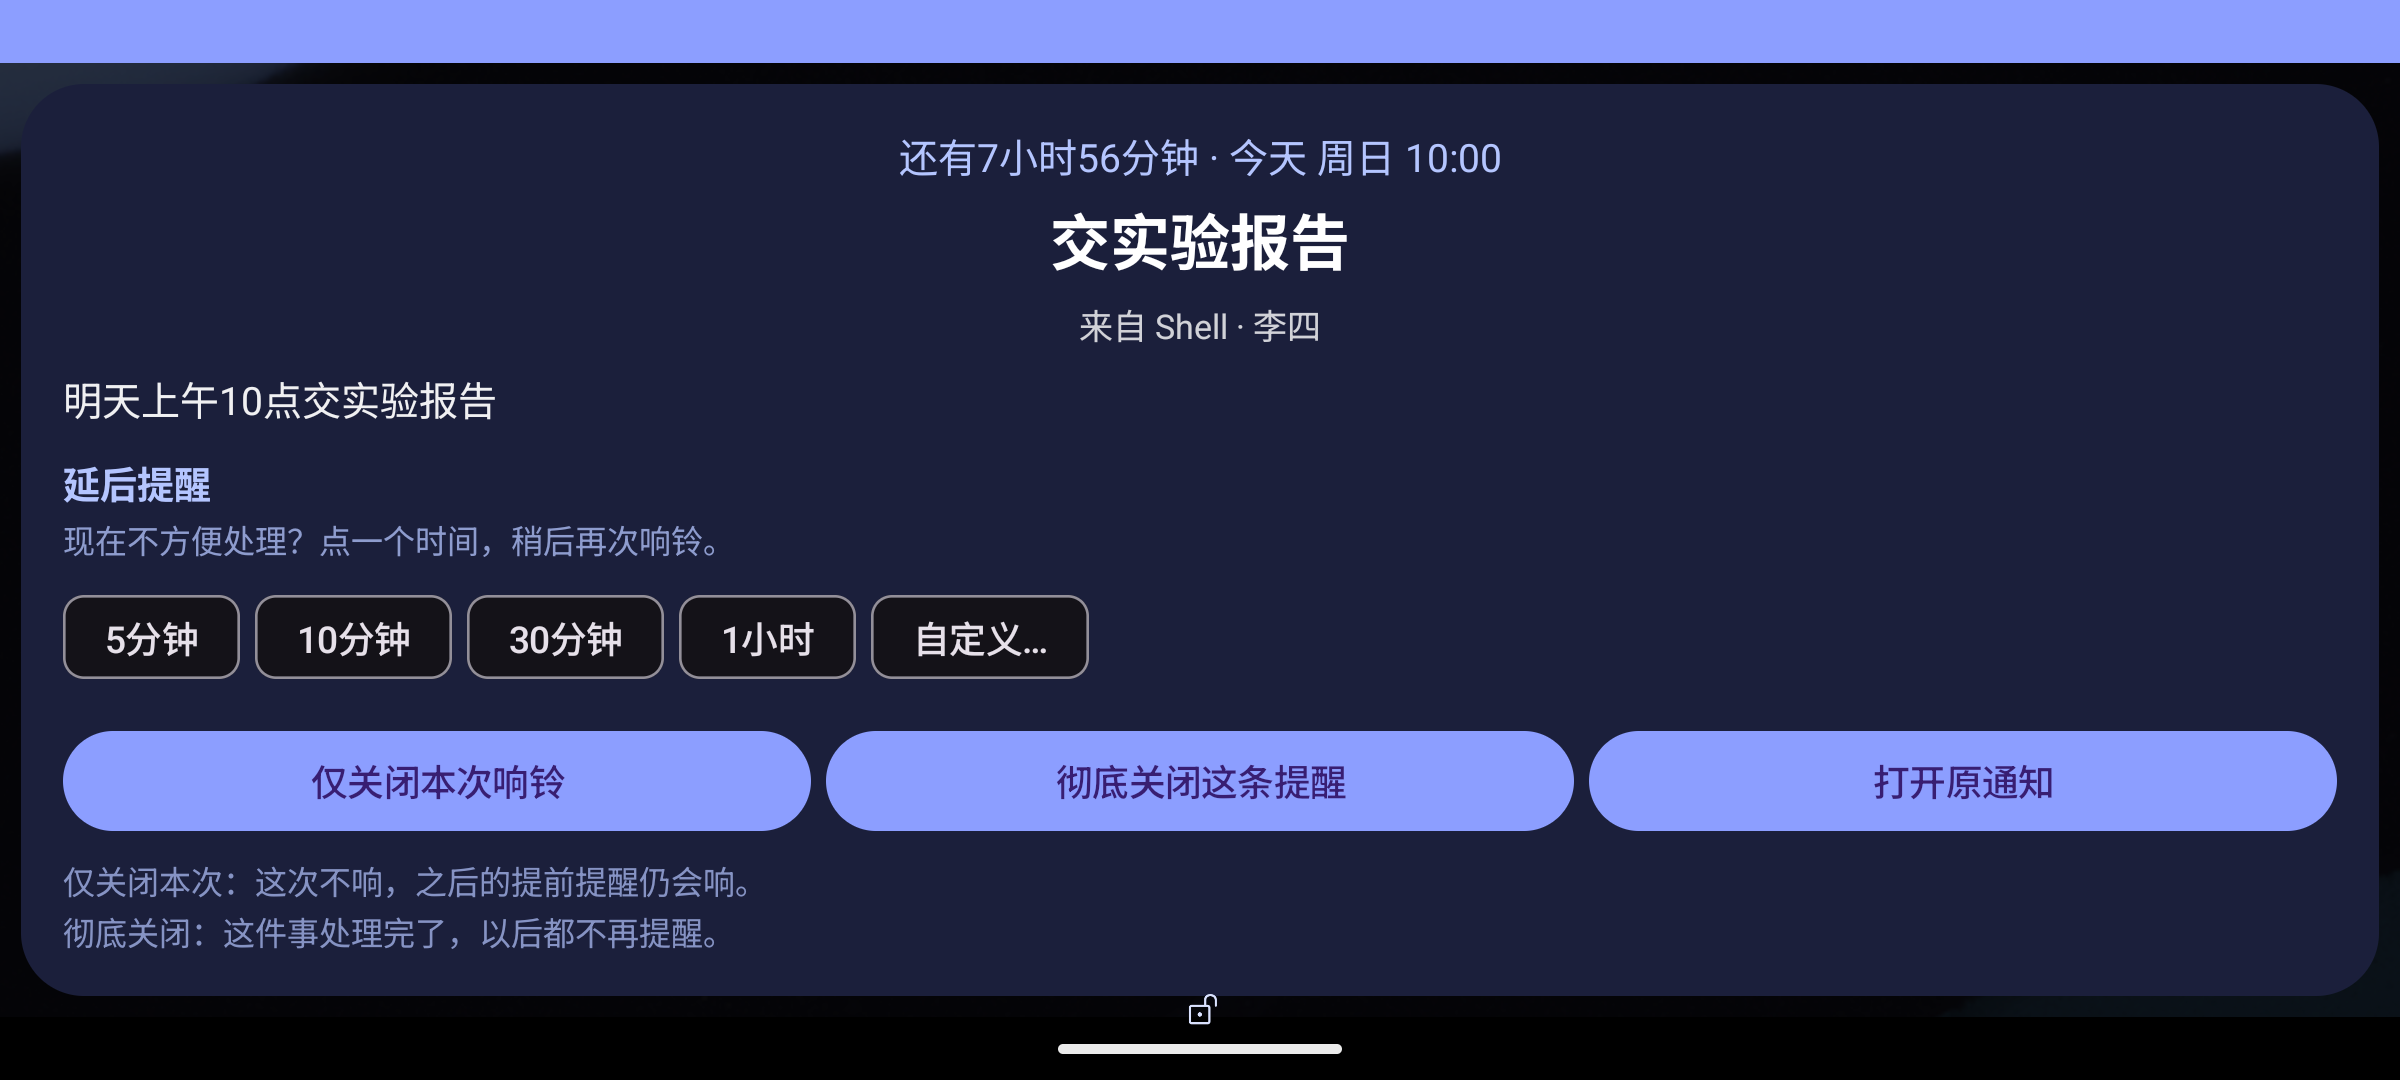
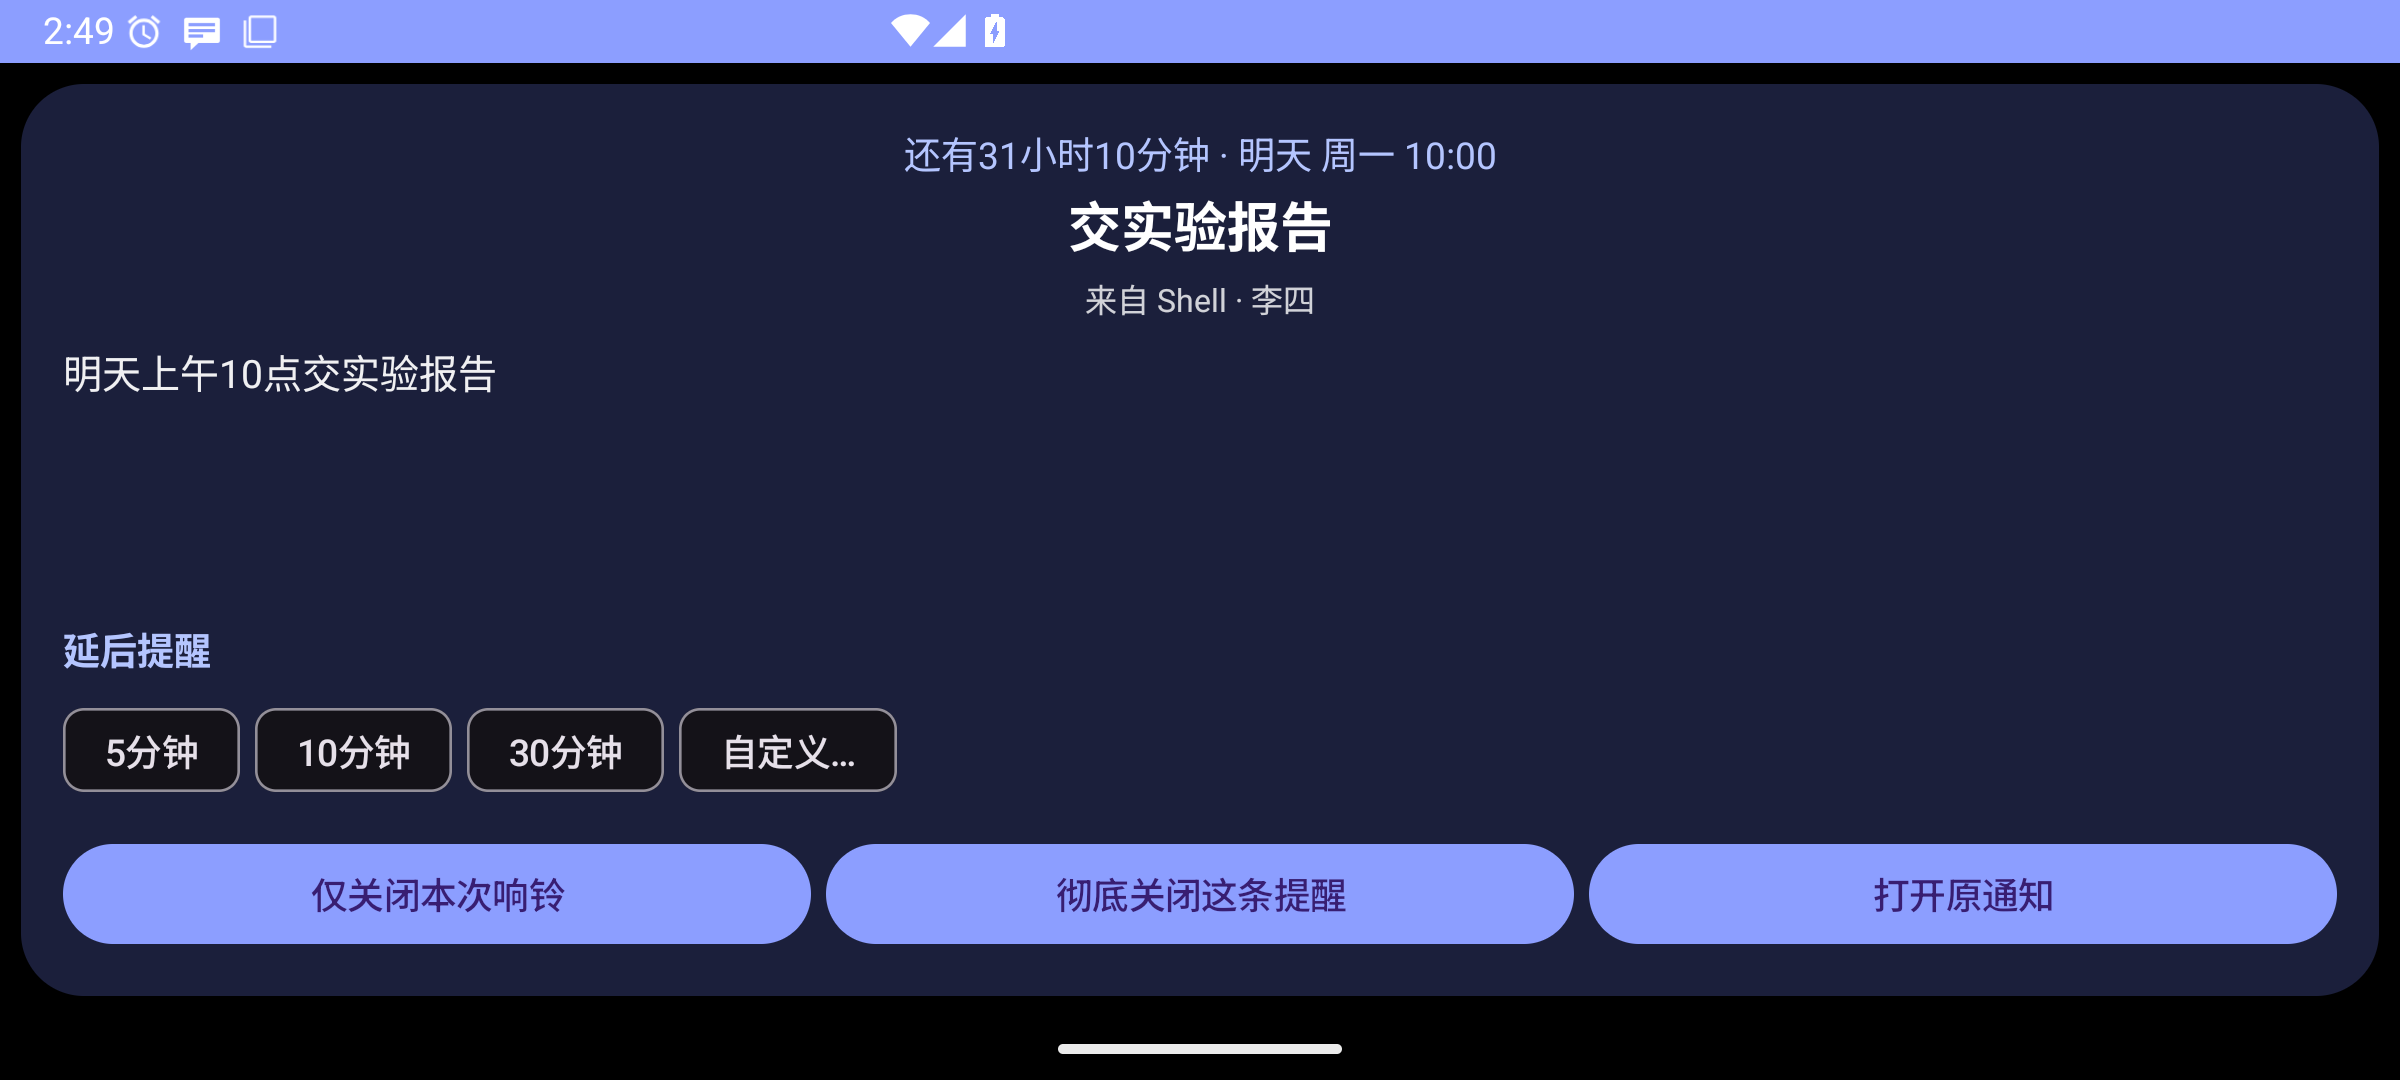
v0.2.2: 精简响铃页说明与提醒列表按钮，改为点按/左滑/长按交互

diff --git a/app/src/main/java/cn/notialarm/ui/MainActivity.kt b/app/src/main/java/cn/notialarm/ui/MainActivity.kt
@@ -5,6 +5,7 @@ import android.graphics.Typeface
 import android.os.Bundle
 import android.view.Menu
 import android.view.MenuItem
+import android.view.MotionEvent
 import android.view.View
 import android.widget.Button
 import android.widget.EditText
@@ -31,6 +32,7 @@ import cn.notialarm.data.Reminder
 import cn.notialarm.data.ReminderStore
 import com.google.android.material.dialog.MaterialAlertDialogBuilder
 import java.time.LocalDateTime
+import kotlin.math.abs
 
 class MainActivity : AppCompatActivity() {
 
@@ -41,6 +43,7 @@ class MainActivity : AppCompatActivity() {
     private lateinit var logText: TextView
     private lateinit var tvDiag: TextView
     private lateinit var tvPermWarning: TextView
+    private lateinit var tvListHint: TextView
     private lateinit var btnActive: Button
     private lateinit var btnArchived: Button
 
@@ -59,6 +62,7 @@ class MainActivity : AppCompatActivity() {
         logText = findViewById(R.id.logText)
         tvDiag = findViewById(R.id.tvDiag)
         tvPermWarning = findViewById(R.id.tvPermWarning)
+        tvListHint = findViewById(R.id.tvListHint)
         btnActive = findViewById(R.id.btnActive)
         btnArchived = findViewById(R.id.btnArchived)
 
@@ -167,6 +171,11 @@ class MainActivity : AppCompatActivity() {
         btnArchived.alpha = if (showArchived) 1f else 0.5f
 
         val list = if (showArchived) archived else active
+        tvListHint.text = if (showArchived) {
+            "点按查看全文 · 左滑恢复 · 长按删除"
+        } else {
+            "点按查看全文 · 左滑归档 · 长按修改或删除"
+        }
         emptyText.visibility = if (list.isEmpty()) View.VISIBLE else View.GONE
         emptyText.text = if (showArchived) {
             "归档是空的。已过期或你点过“彻底关闭”的提醒会放在这里。"
@@ -194,7 +203,51 @@ class MainActivity : AppCompatActivity() {
             v.findViewById<TextView>(R.id.meta).text = meta
             if (!r.archived && r.time.isBefore(now)) v.alpha = 0.55f
 
-            v.findViewById<Button>(R.id.btnDetail).setOnClickListener { showDetail(r) }
+            // 点按看全文、左滑归档/恢复、长按修改或删除，列表不再堆一排按钮
+            var downX = 0f
+            var downY = 0f
+            var downAt = 0L
+            var swiped = false
+            var longFired = false
+            val longPress = Runnable {
+                longFired = true
+                showItemMenu(r)
+            }
+            v.setOnTouchListener { view, e ->
+                when (e.actionMasked) {
+                    MotionEvent.ACTION_DOWN -> {
+                        downX = e.rawX
+                        downY = e.rawY
+                        downAt = System.currentTimeMillis()
+                        swiped = false
+                        longFired = false
+                        view.postDelayed(longPress, 500)
+                    }
+                    MotionEvent.ACTION_MOVE -> {
+                        val dx = e.rawX - downX
+                        val dy = e.rawY - downY
+                        if (abs(dx) > dp(12) || abs(dy) > dp(12)) view.removeCallbacks(longPress)
+                        if (dx < -dp(70) && abs(dx) > abs(dy) * 1.5f) swiped = true
+                    }
+                    MotionEvent.ACTION_UP -> {
+                        view.removeCallbacks(longPress)
+                        if (swiped) {
+                            if (r.archived) {
+                                Reminders.restore(this@MainActivity, r.id)
+                                Toast.makeText(this@MainActivity, "已恢复到待处理", Toast.LENGTH_SHORT).show()
+                            } else {
+                                Reminders.archive(this@MainActivity, r.id)
+                                Toast.makeText(this@MainActivity, "已归档", Toast.LENGTH_SHORT).show()
+                            }
+                        } else if (!longFired && System.currentTimeMillis() - downAt < 400) {
+                            showDetail(r)
+                        }
+                    }
+                    MotionEvent.ACTION_CANCEL -> view.removeCallbacks(longPress)
+                }
+                true
+            }
+
             v.findViewById<Button>(R.id.btnOpen).apply {
                 visibility = if (r.pkg.isNotBlank() || r.notifKey.isNotBlank()) View.VISIBLE else View.GONE
                 setOnClickListener { openSource(r) }
@@ -206,20 +259,29 @@ class MainActivity : AppCompatActivity() {
                     Toast.makeText(this@MainActivity, "已彻底关闭，这条以后不会再响", Toast.LENGTH_SHORT).show()
                 }
             }
-            v.findViewById<Button>(R.id.btnArchive).apply {
-                visibility = if (r.archived) View.GONE else View.VISIBLE
-                setOnClickListener { Reminders.archive(this@MainActivity, r.id) }
-            }
-            v.findViewById<Button>(R.id.btnRestore).apply {
-                visibility = if (r.archived) View.VISIBLE else View.GONE
-                setOnClickListener { Reminders.restore(this@MainActivity, r.id) }
-            }
-            v.findViewById<Button>(R.id.btnEdit).setOnClickListener { showEdit(r) }
-            v.findViewById<Button>(R.id.btnDelete).setOnClickListener {
-                Reminders.delete(this, r.id)
-            }
             reminderContainer.addView(v)
         }
+    }
+
+    /** 长按菜单：平时不显示修改/删除按钮。 */
+    private fun showItemMenu(r: Reminder) {
+        val actions = if (r.archived) arrayOf("恢复", "删除") else arrayOf("修改", "删除")
+        MaterialAlertDialogBuilder(this)
+            .setTitle(r.title)
+            .setItems(actions) { _, which ->
+                if (r.archived) {
+                    if (which == 0) {
+                        Reminders.restore(this, r.id)
+                        Toast.makeText(this, "已恢复到待处理", Toast.LENGTH_SHORT).show()
+                    } else {
+                        Reminders.delete(this, r.id)
+                    }
+                } else {
+                    if (which == 0) showEdit(r) else Reminders.delete(this, r.id)
+                }
+            }
+            .setNegativeButton("取消", null)
+            .show()
     }
 
     /** 弹窗里正文不截断，可滚动、可复制。 */

diff --git a/app/src/main/java/cn/notialarm/ui/AlarmActivity.kt b/app/src/main/java/cn/notialarm/ui/AlarmActivity.kt
@@ -53,7 +53,7 @@ class AlarmActivity : AppCompatActivity() {
         onBackPressedDispatcher.addCallback(this) { send(AlarmService.ACTION_STOP) }
 
         val chips = findViewById<ChipGroup>(R.id.snoozeChips)
-        for (min in Prefs(this).snoozeOptions) {
+        for (min in Prefs(this).snoozeOptions.filter { it != 60 }) {
             chips.addView(Chip(this).apply {
                 text = Fmt.minutes(min)
                 setOnClickListener { send(AlarmService.ACTION_SNOOZE, min) }

diff --git a/app/src/main/java/cn/notialarm/data/Prefs.kt b/app/src/main/java/cn/notialarm/data/Prefs.kt
@@ -98,7 +98,7 @@ class Prefs(ctx: Context) {
     /** 弹窗里的“延后”选项（分钟）。 */
     var snoozeOptions: List<Int>
         get() = parseOffsets(sp.getString("snooze", null) ?: "")?.filter { it > 0 }?.sorted()
-            ?.takeIf { it.isNotEmpty() } ?: listOf(5, 10, 30, 60)
+            ?.takeIf { it.isNotEmpty() } ?: listOf(5, 10, 30)
         set(v) = sp.edit().putString("snooze", v.joinToString(",")).apply()
 
     var quietEnabled: Boolean

diff --git a/README.md b/README.md
@@ -3,11 +3,17 @@
 监听微信、QQ、哈工大 APP 等任意 App 的通知，识别出里面的时间，自动创建提醒：
 到点前按你设定的提前量（比如 60、10、0 分钟）响铃、振动、弹窗。
 
+## 0.2.2 更新
+
+- 响铃页删掉两段说明文字，标题缩小，正文能多看到几行；延后选项不再显示“1 小时”。
+- 提醒列表收起按钮：点按查看全文、左滑归档（归档页左滑恢复）、长按出现修改/删除；“跳转”统一叫“打开原通知”。
+- 保留“彻底关闭”和“打开原通知”两个常用按钮，其余操作都不再常驻。
+
 ## 0.2.1 更新
 
 - 权限检查移到首页右上角齿轮里的“设置”，首页不再被一大块权限说明占住。
-- 响铃按钮改为“仅关闭本次响铃 / 彻底关闭这条提醒”，按钮下面直接写清两者的区别。
-- “延后提醒”增加标题和说明，时间选项自动换行，横屏也不会被截断。
+- 响铃按钮改为“仅关闭本次响铃 / 彻底关闭这条提醒”。
+- “延后提醒”增加标题，时间选项自动换行，横屏也不会被截断。
 - 响铃页真正显示后自动把通知降级，系统横幅不会再遮住标题；锁屏/熄屏仍用高优先级全屏通知。
 - “未确认”通知改用独立通知 id，不会再被前台服务停止时一起清掉。
 
@@ -60,13 +66,13 @@
   可以点“撤销最近一条”或在首页修改。
 - 首页“试一试”可以粘贴一段文字测试识别效果；“最近处理的通知”能看到每条通知的识别结果。
 - 每个提醒可以单独修改时间和提前量（逗号分隔的分钟数，最多 9 个）。
-- **归档**：事件结束 2 小时后自动进“归档”，也可以点提醒上的“归档”手动放进去；
-  “待处理/归档”两个按钮切换查看。归档最多保留 120 条、总量 200 条，旧数据会自动清理。
-- **彻底关闭这条提醒**：提醒上或响铃页点这个按钮，会取消它剩下的所有闹钟并归档，之后不再响。
-- 到点弹出确认页：点“仅关闭本次响铃”，或选择延后 5/10/30/60 分钟（可在设置里改，也能在弹窗里自定义）。
-  返回键等于“仅关闭本次响铃”，不会再关不掉；按钮下方直接写明“仅关闭本次”和“彻底关闭”的区别。
-  **横屏**时三个按钮固定成一行，正文可滚动。
-- 响铃页正文完整显示、可滚动、可复制；“全文”按钮也能看到完整原文和来源。
+- **归档**：事件结束 2 小时后自动进“归档”，也可以在待处理列表里**左滑**手动归档；
+  “待处理/归档”两个按钮切换查看，归档页左滑可恢复。归档最多保留 120 条、总量 200 条，旧数据会自动清理。
+- **彻底关闭这条提醒**：提醒上的“彻底关闭”或响铃页的按钮，会取消它剩下的所有闹钟并归档，之后不再响。
+- 列表操作：**点按**提醒查看完整原文和来源；**长按**弹出“修改/删除”；“打开原通知”跳回原消息。
+- 到点弹出确认页：点“仅关闭本次响铃”，或选择延后 5/10/30 分钟（可在设置里改，也能在弹窗里自定义）。
+  返回键等于“仅关闭本次响铃”，不会再关不掉。**横屏**时三个按钮固定成一行，正文可滚动。
+- 响铃页正文完整显示、可滚动、可复制；列表里点按提醒也能看到完整原文和来源。
 - **打开原通知**：响铃页/列表/通知栏都有这个按钮，会跳回微信、QQ 里那条消息；
   原通知已被清除时退化为打开来源 App。
 - 铃声和振动默认持续 5 分钟，可改为 1–30 分钟或“一直响到确认”。超时没确认会停止响铃，但弹窗保留，并留下一条带“延后”按钮的通知。
